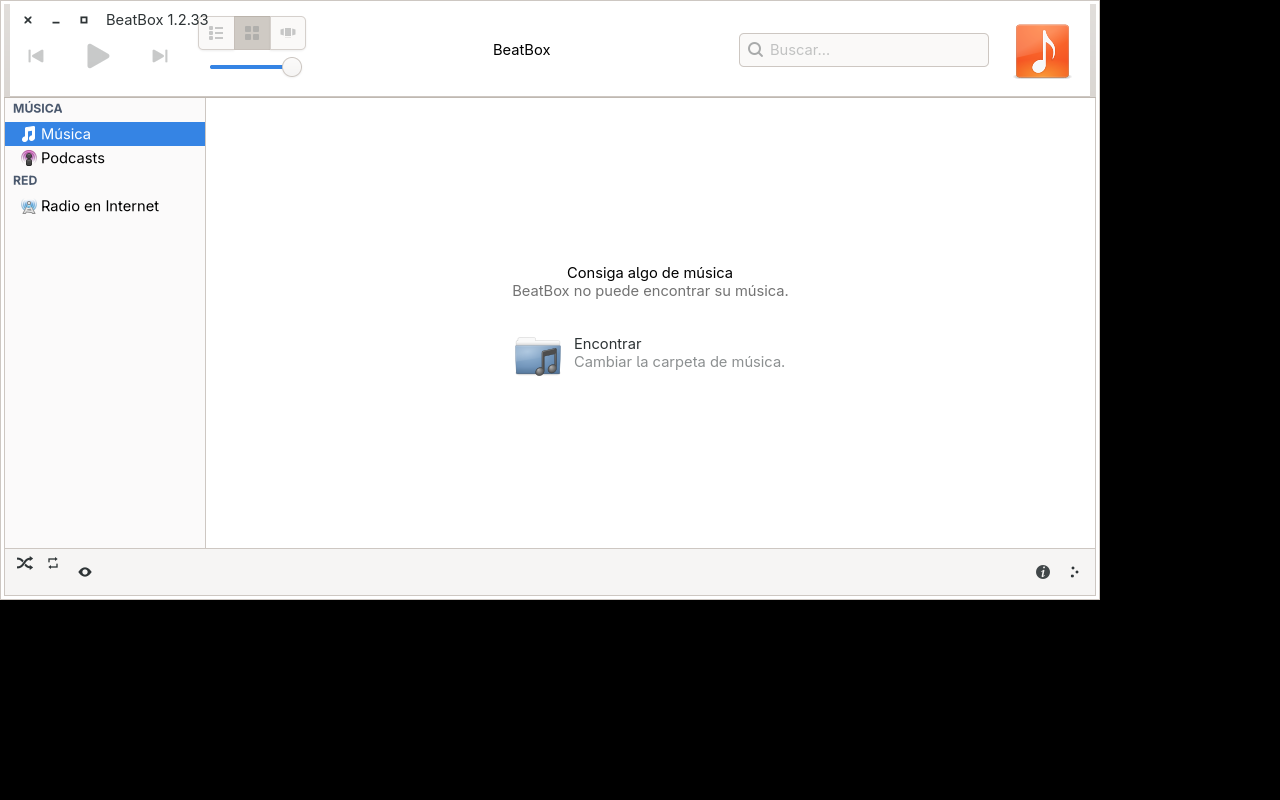
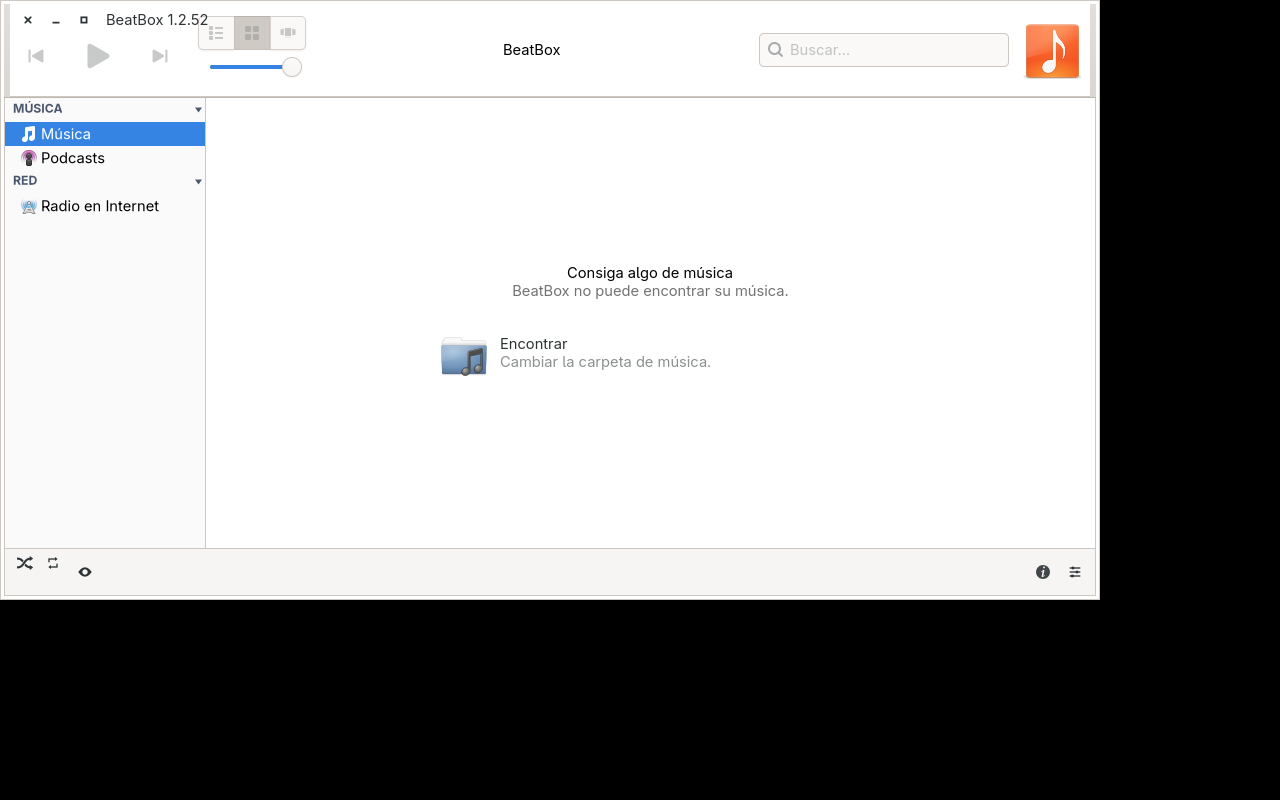
GTK4: ESTADO after the GUI review (all pending markers closed)

diff --git a/docs/gtk4/ESTADO.md b/docs/gtk4/ESTADO.md
@@ -31,10 +31,10 @@ etapa 2 con el andamio; `tools/gtk4-check.sh` tarda ~2 s.
 | T28 núcleo de la aplicación | H | [x] | | 0 | opciones de GTK (--display) ya no se parsean; «(None)» del selector de bibliotecas es texto nuevo sin traducir; LibrarySwitcher.new_library es async |
 | T29 código C | H | [x] | | 0 | comentarios nuevos en español, como el resto de ese archivo |
 | T30 cierre de compilación | H (orquestador) | [x] | | 0 | valac 0 errores; ninja termina (beatbox, plugins y pruebas). Antes del cierre: 4 clases que heredaban de tipos opacos de GTK 4 (ScrolledWindow, IconView, Separator, Notebook, Image, Viewport, ActionBar, SearchEntry, CellRendererPixbuf, Stack) pasan a composición |
-| T31 pruebas y primer arranque | H | [x] | dfbdd8a, f3f5e73 | 1 | 17/17 pruebas con SMOKE_REQUIRED=1. El arranque se colgaba: ModeButton.append se llamaba a sí mismo (ModeButton.vala) y el manejador «forzar NORMAL» de RatingMenuItem limpiaba DIR_LTR en bucle; corregidos. Una vez falló la prueba smoke con «Failed to open display» (el Xvfb de la prueba aún no estaba listo); dos reintentos pasan: vigilar |
-| T40 avisos y widgets ocultos | H | [~] | 220a213 | 1 | Corregidos: CRITICAL de AT-SPI (GTK_A11Y=none en pruebas y capturas), avisos de analizador CSS (T41), prefer-dark-theme → gtk-interface-color-scheme. Riesgo 1: los 40 no_show_all retirados tienen ahora visible=false o set_visible en el código actual; show()/hide() siguen funcionando en 4.24 (son gtk_widget_show/hide, deprecados). PENDIENTE: 19 avisos «Trying to measure BeatBoxLibraryWindow … height of 466, but it needs at least 573» al arrancar: la ventana recibe 466 px en su primera asignación y su mínimo es 573; con 590 px no hay aviso. La cadena de mínimos cuelga de la pantalla de bienvenida (BeatBoxWelcome, rejilla de 184 px dada 118). Causa no confirmada |
-| T41 CSS y apariencias | H | [x] | 220a213 | 2 | csscheck: data/theme.css y los 8 skins sin errores; los 8 bloques CSS embebidos en el código también. Cambios: -gtk-gradient → linear-gradient; -unico-* quitados (no aparecen en el registro de GTK 3); toolbar/toolbutton/toolitem → clases; :nth-child(first/last) → :first-child/:last-child; -GtkToolbar-button-relief quitado. PENDIENTE: revisión visual de cada apariencia; la cabecera solo cambia con un skin no nativo (el nativo no carga theme.css) |
-| T42 pendientes | H | [x] | | 14 | 14 marcas GTK4-PENDIENTE: ninguna tiene solución sin decisión del usuario o una prueba visual. Cada una está en «Pendientes para el usuario» |
+| T31 pruebas y primer arranque | H | [x] | dfbdd8a, f3f5e73, fef30cc | 0 | 17/17 pruebas con SMOKE_REQUIRED=1. El arranque se colgaba: ModeButton.append se llamaba a sí mismo y el manejador «forzar NORMAL» de RatingMenuItem limpiaba DIR_LTR en bucle; corregidos. La prueba smoke reintenta el Xvfb si otro le quita el número de pantalla e ignora el montaje del portal (run/doc) al limpiar: tres ejecuciones en paralelo pasan |
+| T40 avisos y widgets ocultos | H | [x] | 220a213, 2737a27 | 0 | Corregidos: CRITICAL de AT-SPI (GTK_A11Y=none en pruebas y capturas), avisos del analizador CSS (T41), prefer-dark-theme → gtk-interface-color-scheme. Los 19 avisos «Trying to measure …» al arrancar venían de la pantalla de bienvenida: su texto con ajuste de línea hacía que el mínimo de la ventana dependiera del ancho (573 px estrecha, 466 a 1100) y GTK medía por debajo; la página va en un ScrolledWindow y las descripciones tienen ancho fijo. Riesgo 1: los 40 no_show_all retirados tienen visible=false o set_visible |
+| T41 CSS y apariencias | H | [x] | 220a213, f84b68e | 0 | csscheck: data/theme.css y los 8 skins sin errores. Revisión visual de las 8 apariencias en Xvfb contra GTK3: barra de estado, botones de transporte (redondos), botón de menú redondo y rejilla de álbumes no recibían su estilo (selectores con la estructura de GTK3: actionbar.app-statusbar sobre la caja exterior, .transport-button > button, button.round-menu, iconview.albumgrid sobre la caja); corregidos |
+| T42 pendientes | H | [x] | 2737a27…f6b55c2 | 0 | Las 14 marcas GTK4-PENDIENTE están cerradas (ninguna queda en el código); cada una, con lo hecho, en «Pendientes para el usuario» |
 | T43 capturas | orquestador | [x] | f3f5e73 | 0 | docs/gtk4/capturas/gtk4-final.png; diferencias abajo |
 | T50 empaquetado | D | [x] | bf1322c | 0 | sin verificar hasta el CI: Debian, Fedora, Arch y CI piden GTK 4; AppImage con DEPLOY_GTK_VERSION=4 (plugin de linuxdeploy sin verificar); Flatpak ya usa org.gnome.Platform 50 |
 | T51 documentación | D | [x] | bf1322c | 0 | README, docs/plugins.md, docs/gtk4-prep.md y NEWS (2.0, unreleased). listeninglog.py no pide Gtk (solo BeatBox 1.0): sin cambios |
@@ -45,34 +45,41 @@ etapa 2 con el andamio; `tools/gtk4-check.sh` tarda ~2 s.
 
 ## Pendientes para el usuario
 
-1. Vídeo en la ventana «Reproduciendo»: `video_area_xid` devuelve 0 (`src/Core/LibraryWindow.vala:49`, `Streamer.vala`). GTK 4 no da un XID por widget. Solución: gtk4paintablesink (decisión).
-2. Lista emergente centrada sobre el muro: GTK 4 no coloca ventanas (`src/Views/PopupListView.vala:244`).
-3. Mantener la ventana encima en el modo mini: GTK 4 no lo permite (`LibraryWindow.vala`, `apply_keep_above`).
-4. Submenús del visualizador: se abren al pulsar y al elegir solo cierran el submenú (`src/Widgets/Visualizer.vala:303`, `:497`).
-5. Barra de título: `Gtk.WindowHandle` también maximiza con doble clic (`core/Utils/UI.vala:117`); arrastre y doble clic por revisar en la GUI (`LibraryWindow.vala:382`).
-6. Icono simbólico sin los colores del contexto (`core/Utils/Icon.vala:213`).
-7. Icono de la barra de estado: se tiñe solo al crearse, no al cambiar de skin (`src/Widgets/StatusBar.vala:68`).
-8. Tamaños que dependían de `size-allocate` (GTK 4 no lo tiene en Box ni en Paned): botón redondo del LCD (`LibraryWindow.vala:472`) y divisor principal (`LibraryWindow.vala:541`). Revisar en la GUI.
-9. Tamaño de la ventana con la barra de título (`LibraryWindow.vala:202`) y `set_default_size (1, 1)` del LCD (`src/Widgets/TopDisplay/LcdCover.vala:150`). Revisar en la GUI.
-10. Decisión: el texto de Acerca de dice «Ported to GTK 4» (antes GTK 3); es un cambio visible.
-11. Decisión: «(None)» del selector de bibliotecas es texto nuevo sin traducir.
-12. Decisión: la opción `--display` de GTK ya no se analiza.
-13. Avisos de medida de la ventana al arrancar (T40): sin resolver.
+Cerrados el 2026-11-12 (segunda vuelta, con la GUI en Xvfb + xfwm4 y una biblioteca de prueba):
+
+1. Vídeo: ya estaba apagado en 1.x (sin sumidero de vídeo; playbin solo audio). Se quitó el código del XID (`video_area_xid`). Si se quiere vídeo: gtk4paintablesink (instalado aquí) dibuja en un Gdk.Paintable.
+2. Lista emergente: el gestor de ventanas la coloca (transitoria de la principal) cerca del centro de la ventana. Aceptado.
+3. Mantener encima el mini reproductor: GTK 4 no puede. Se quitó la casilla (en X11 seguía activa sin efecto); la página explica «Siempre encima» del menú de la ventana. El texto, para conservar sus 43 traducciones, sigue diciendo «En Wayland».
+4. Submenús del visualizador: elegir ahora cierra toda la cadena de menús. Se abren al pulsar (GTK3: al pasar el ratón).
+5. WindowHandle: GTK solo maximiza con doble clic ventanas sin padre transitorio; las dos que lo usan lo tienen. El doble clic de la carátula ampliada (cerrar) va en fase de captura y funciona. Arrastrar la carátula del LCD ya no mueve la ventana (la pulsación se reclama con un gesto agrupado con el DragSource).
+6. Iconos simbólicos en pixbuf: se tiñen con el color del contexto (UI.tint), como load_symbolic_for_context.
+7. Barra de estado: sus iconos son SVG simbólicos que GTK 4 recolorea solo; comprobado al pasar a Adwaita oscuro.
+8. size-allocate: el botón redondo queda bien tras cambiar de skin; el panel de información conserva su ancho al maximizar.
+9. Tamaño de ventana: 1100×600 estable entre sesiones y tras el mini reproductor; se quitó la corrección de la barra de título de GTK3. La carátula ampliada encoge con el zoom.
+10. Acerca de: dice «Ported to GTK 4»; las traducciones se actualizaron igual.
+11. «(None)»: era el texto del FileChooserButton de GTK3; añadida la traducción al español («(Ninguna)»).
+12. `--display`: anotado en NEWS (usar la variable DISPLAY).
+13. Avisos de medida al arrancar: corregidos (T40).
+
+Fallos encontrados y corregidos en esta vuelta (ninguno estaba marcado): escribir tres letras en el buscador cerraba el programa; la primera tecla iba a la búsqueda interactiva de la barra lateral en vez de al buscador (y daba un CRITICAL); el muro de álbumes tenía una columna y no mostraba carátulas hasta redibujar; los size_allocate/measure de subclases de Box no se llamaban nunca (marquesina, letras, SpaceWidget, carátula del LCD); el panel de información se abría recortado a ~70 px; carátulas y estrellas en celdas a 16 px; el menú de columnas de la cabecera abría el menú de la canción; menús sobre un TreeView daban un CRITICAL; soltar archivos sobre la ventana leía el FileList como objeto; flechas de la barra lateral sin dibujar; icono del ecualizador como tres puntos; botones de las preferencias a la izquierda.
+
+Queda:
+
+- Un menú largo abierto cerca del borde inferior se sale de la pantalla en X11 (el visualizador en una pantalla de 800 px); en Wayland lo ajusta el compositor. Sin desplazamiento propio dentro de PopMenu.
+- Errores de formato en traducciones que ya estaban (msgfmt -c): ar, de, fr, hi, it, ko, pt_BR. Un printf con especificadores distintos puede romper ese texto.
+- Last.fm: la clave de la API responde y el inicio de sesión llega a Last.fm (rechaza un usuario inventado con «Authentication Failed»); falta probar con una cuenta real.
+- Revisión manual en el escritorio real: arrastre de varias canciones a listas, Cover Flow, editor de canciones, importar una carpeta soltándola.
 
 ## Diferencias vistas en las capturas
 
-Contra `docs/gtk4/capturas/gtk3-referencia.png`, el resultado final (`gtk4-final.png`) tiene la misma estructura: barra superior, barra lateral, panel central con la pantalla de bienvenida y barra inferior.
-Diferencias: no aparecen las flechas de expansión de la barra lateral; el icono de ajustes de la barra inferior derecha es otro (puntos en vez de deslizadores); los iconos de reproducción salen grises y el deslizador de volumen tiene la pista gris en vez de azul; la cabecera es más plana (tema nativo de Adwaita en vez del de GTK 3).
-La ventana mide 1100×590 frente a unos 1110×700 de la referencia; no se ha comprobado si se debe a la configuración de la captura. El título «BeatBox 1.2.x» se solapa con los botones de modo también en la referencia (no es nuevo).
+Contra `docs/gtk4/capturas/gtk3-referencia.png`, `gtk4-final.png` tiene la misma estructura: barra superior, barra lateral con sus flechas, panel central con la pantalla de bienvenida y barra inferior con el icono de ecualizador (deslizadores). La ventana mide 1100×600 (la referencia se tomó con 700 de alto guardados). Los botones de reproducción salen más claros porque están desactivados sin biblioteca: así pinta Adwaita de GTK 4 un botón desactivado. Con la misma biblioteca y la misma apariencia, el muro, la lista, el LCD con carátula, la lista emergente y las 8 apariencias se compararon contra la compilación GTK3 (`build/beatbox`) y coinciden salvo detalles de tema.
 
 ## Resumen final
 
 Estado de la rama `gtk4` (sin fusionar, sin publicar, sin etiquetar, sin instalar):
 
-- Arranque: la ventana aparece y el proceso queda en reposo. El bucle al arrancar estaba en ModeButton.append (recursión) y en RatingMenuItem (manejador de estado); corregidos en dfbdd8a.
-- Pruebas: 17/17 con SMOKE_REQUIRED=1 (una vez falló por la carrera del Xvfb de la prueba; dos reintentos pasan).
-- Captura: gtk4-final.png sin avisos de CRITICAL ni del analizador CSS. Queda 1 aviso de BeatBox: la medida de la ventana al arrancar (T40, pendiente).
-- Riesgo 2 (pixbuf en Gtk.Image): sin hallazgos. Las tres coincidencias de set_*_from_pixbuf son de otras API (iPod y libnotify).
-- Pendientes de código: 14 marcas GTK4-PENDIENTE (lista arriba). Ninguna se puede comprobar sin la GUI.
-- Revisión manual que sigue siendo del usuario: arrastre de varias canciones a listas, menús contextuales, rejillas/muro/Cover Flow/visualizador, cada apariencia clara y oscura, editor de canciones, mini reproductor, importar una carpeta soltándola sobre la ventana.
+- Arranque y uso: la ventana aparece sin avisos de BeatBox; reproducción, búsqueda con sugerencias, muro y rejilla, lista con valoraciones, panel de información, mini reproductor, preferencias, cambio de apariencia, visualizador clásico y carátula del LCD probados en Xvfb.
+- Pruebas: 17/17 con SMOKE_REQUIRED=1; la prueba smoke aguanta ejecuciones en paralelo.
+- Captura: gtk4-final.png sin CRITICAL ni avisos.
+- Marcas GTK4-PENDIENTE: ninguna.
 - Empaquetado y CI: sin verificar localmente.
